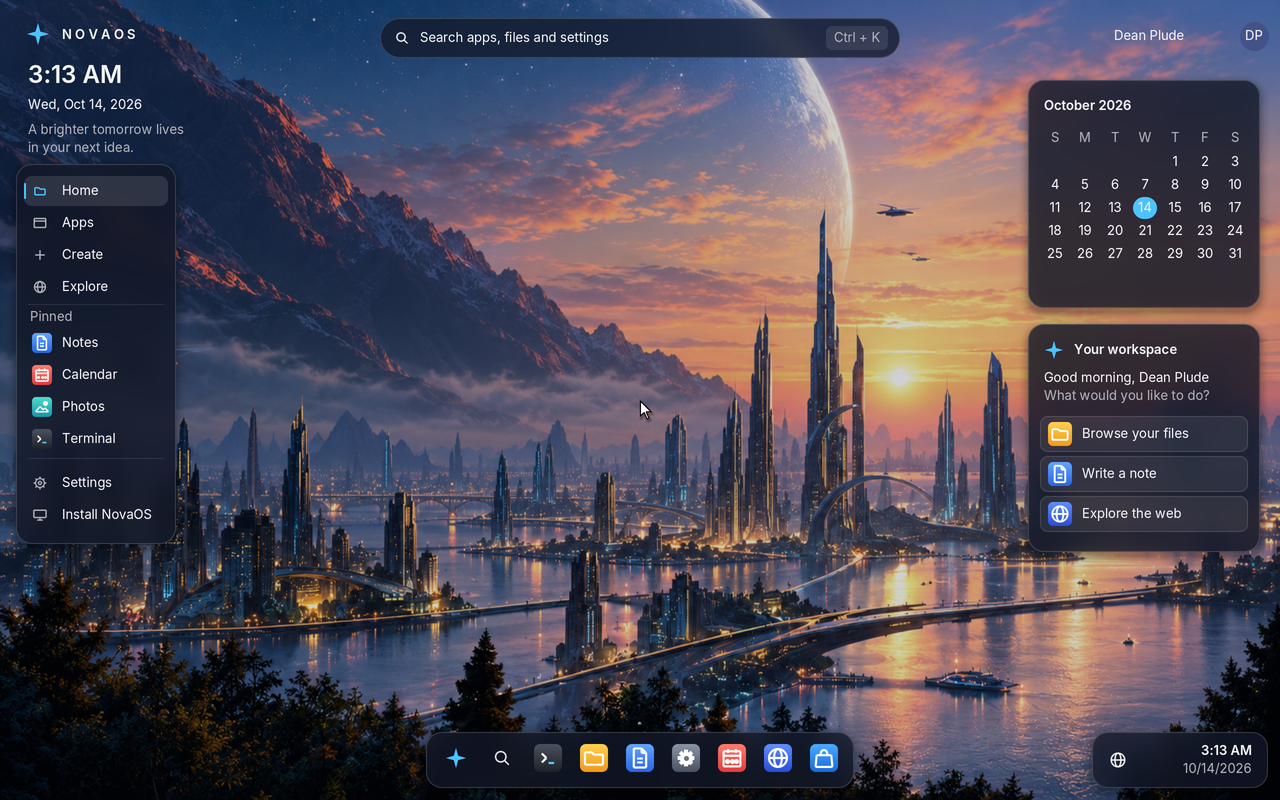
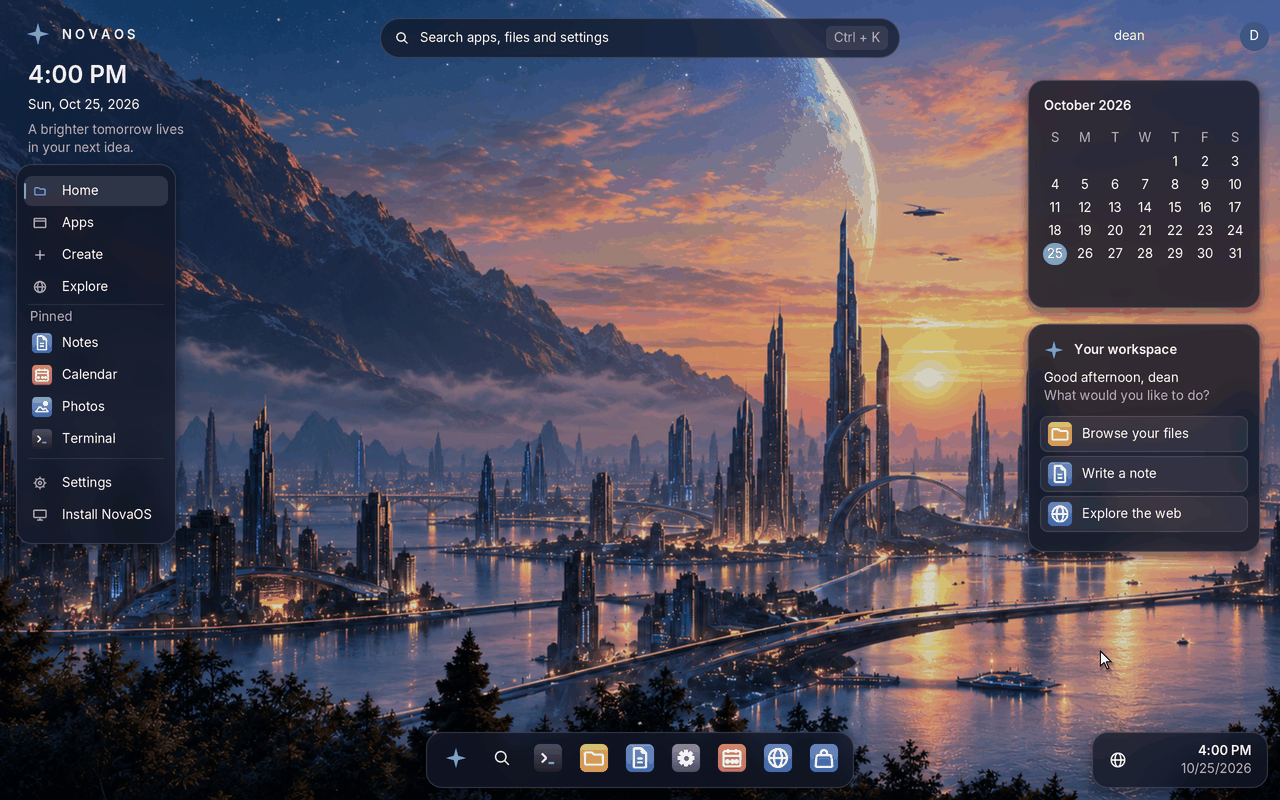
Release prep for 0.2.1 "Starlight": notes, README, screenshots
docs/releases/0.2.1.md drafts the release text (everything since 0.2.0:
Phase 32's XAML, WinUI 2 and packages, drive C: on NTFS in place, the
Settings framework, the firewall, Wi-Fi WPA3, Bluetooth audio, GPU
scheduling, Hyper-V and fixes). The version stays 0.2.0 until Phase 32
closes; the bump comes in its own pull request.

Screenshots retaken from the latest ISO of 2026-10-25: desktop, install,
install-confirm (Setup is NTFS only), settings-display, settings-printers;
new firewall-network-prompt and settings-firewall in the user guide.
README status names Starlight, the T14 boot and the Hyper-V host install,
and lists Phase 32.

Claude-Session: https://claude.ai/code/session_01TQgVPUWm76sFtmkuPDk8va

diff --git a/docs/releases/0.2.1.md b/docs/releases/0.2.1.md
@@ -1,0 +1,152 @@
+NovaOS 0.2.1 "Starlight" is the third release of NovaOS, the from-scratch
+x86-64 operating system that runs native Windows programs: their own
+machine code runs directly on the CPU, and NovaOS supplies the NT system
+calls, the Win32 API, the loader, the desktop and the drivers they expect.
+Kepler (0.2) made NovaOS something to live in; Starlight brings the
+Windows app platform under it: the XAML framework that UWP and WinUI apps
+are written for, built from Microsoft's own MIT source, with WinUI 2's
+controls and Windows app packages. An installed drive C: is now the disk
+itself, Settings was rebuilt, and NovaOS has a firewall.
+
+This ISO passed every CI suite before it was published: the core,
+network and device self-tests (including starting from this ISO) and the
+OpenGL and Direct3D tests.
+
+## What is new since 0.2
+
+**Windows.UI.Xaml and WinUI 2 (Phase 32).** The XAML framework, built
+from Microsoft's MIT `microsoft-ui-xaml` sources, now starts the way it
+does on Windows and answers under its `Windows.UI.Xaml` names, the system
+XAML that UWP and WinUI 2 apps are compiled against.
+
+- **The XAML core and framework build** (32.3): the core services,
+  resource dictionaries with merged and theme dictionaries, the object
+  writer, the control layer on `CoreMessaging.dll`'s `DispatcherQueue`,
+  the value boxer (`wintypes.dll`), the rendering seam, and
+  `Application.Start` on the desktop. `XamlReader.Load` loads a page of a
+  `Grid`, a `TextBlock` and a `Button` end to end.
+- **A XAML window** (32.4): the Windows App SDK's content islands under a
+  `Window`, the framework's control styles and theme resources,
+  DirectWrite's Windows 10 font model (`IDWriteFactory4` to `7`), the
+  window's root `ScrollViewer`, and the composition device and first
+  frame on NovaOS's DirectComposition.
+- **WinUI 2** (32.5): `Microsoft.UI.Xaml.dll` 2.x built from Microsoft's
+  `winui2` sources with no Windows SDK tools (its IDL written to a
+  `.winmd`, C++/WinRT's generator vendored); data binding, control
+  templates, animation and `DispatcherTimer`; a UWP app's start-up runs
+  through to `Window.Current`; `XamlControlsResources` loads whole, and
+  WinUI 2's controls (`InfoBadge`, `ProgressBar`, `ProgressRing`,
+  `SwipeControl`, `BackdropMaterial`) take their default styles.
+- **App packages** (32.6): `appx` installs, lists, removes and starts
+  `.msix` and `.appx` packages, checking every block against the
+  package's block map; package identity, packaged Windows Runtime
+  classes, `ApplicationActivationManager` and `resources.pri` through
+  Microsoft's MRT Core.
+- Along the way: `Windows.UI.Composition`'s later interfaces, property
+  sets and animations; `Windows.Foundation.Metadata.ApiInformation`
+  (Godot 4.7 asks for it at start); `Windows.Foundation.Uri`.
+
+**Drive C: is the disk.** Installed on a disk, NovaOS used to keep all of
+drive C: in memory and write it back behind the scenes. Now an installed
+system's C: is its NTFS volume, used in place as on Windows; the RAM disk
+is only for the live and installer session. Setup formats drive C: as
+NTFS only. Drives on disk keep attributes, times and permissions; Disk
+Management and `GetVolumeInformation` report C:'s real volume; NTFS's
+writer grows the MFT and makes room in a file's record when a rename
+needs it (GIMP's and SuperTux's installers rely on it).
+
+**Settings, rebuilt.** One page framework under every page: each page
+scrolls, a narrow window shows a slim sidebar of icons, **Find a
+setting** (Ctrl+F) searches every page, `start ms-settings:NAME` and
+`settings NAME` open a page, and empty states replace blank pages.
+
+**Network security.** A filtering engine shaped like the Windows Filtering
+Platform and the Windows Firewall on top of it: Domain, Private and
+Public profiles and rules, `fwpuclnt.dll` and `hnetcfg.dll`
+(`INetFwPolicy2`), `netsh advfirewall`, and a Settings > Firewall page. A
+new network is Public; whether it may be Private is asked from the
+network icon by the clock, never by stealing the focus.
+
+**Laptop hardware, continued.** Wi-Fi joins WPA3-Personal networks (SAE
+with management frame protection), and Settings > Wi-Fi and
+`wlanapi.dll` join networks too; a paired Bluetooth headset plays (A2DP,
+with NovaOS's own SBC encoder) and records (hands-free). Still checked
+against modelled devices in QEMU only.
+
+**GPU groundwork.** Command submission, GPU fences, preemption and
+timeout recovery for a render driver, the fourth and fifth parts of step 3
+of the Intel GPU design; Intel's driver itself has not run yet.
+
+**Hyper-V on a real host.** The first boots on a real Hyper-V host brought
+fixes to the synthetic video (packed messages, the screen kept updating
+during boot) and to the storage driver, which now sleeps for its answers
+instead of polling under the kernel lock.
+
+**Fixes.** The Visual C++ Redistributable's installer window shows again;
+idle CPUs return to `PASSIVE_LEVEL` (devices that stopped answering after
+boot); Direct3D on Venus no longer hangs on a present fence; a re-enabled
+KMDF driver starts every time; `appx remove` reports a folder it cannot
+delete.
+
+**CI.** About ten checks per pull request instead of 68, the devices
+suite in three shards, apt and ccache caches that keep test jobs from
+stalling.
+
+[docs/compatibility.md]({blob}/docs/compatibility.md) lists every program
+checked and how well it runs.
+
+## Starting it
+
+Check the download first: `sha256sum -c nova.iso.sha256` on Linux,
+`shasum -a 256 -c nova.iso.sha256` on a Mac.
+
+- **In QEMU** (Linux, macOS, Windows through WSL2): boot `nova.iso` on a
+  q35 machine with UEFI firmware (OVMF) and 2 GB of memory; the
+  [user guide]({blob}/docs/user-guide.md#trying-it-in-a-virtual-machine)
+  has the command lines.
+- **In Hyper-V**: a Generation 2 virtual machine with Secure Boot off
+  ([docs/hyperv.md]({blob}/docs/hyperv.md)).
+- **On a PC** with UEFI and Secure Boot off: write `nova.iso` to a USB
+  stick (`dd`, Rufus in DD mode or balenaEtcher) and start from it.
+- Started from the ISO, NovaOS runs live and offers **Install NovaOS**,
+  on its own disk or beside Windows. The first start of the installed
+  system asks for your name, time zone, keyboard layout and display
+  resolution and creates the first account.
+
+The [user guide]({blob}/docs/user-guide.md) covers the desktop, the App
+Store, files, network and sound; [docs/building.md]({blob}/docs/building.md)
+builds the same image from source.
+
+## Updates
+
+An installed NovaOS 0.2 or a newer build of `main` updates itself to this
+release: the App Store's **Updates** page, or `update` in the Terminal,
+reads this release's `novaos-update.txt`, installs the new kernel and boot
+loader, and goes back to the old ones if the new kernel does not reach the
+desktop ([docs/updates.md]({blob}/docs/updates.md)). An installation on
+NTFS uses its volume as drive C: from the first start of 0.2.1; one on
+FAT32, made by an older NovaOS, keeps the old way (C: in a RAM disk saved
+to the volume) until it is reinstalled on NTFS
+([docs/design/disk-c.md]({blob}/docs/design/disk-c.md)).
+
+## Known limits
+
+- XAML pages are not drawn yet: WinUI 2 apps start, load their resources
+  and apply their styles, and the first page laid out, drawn, typed into
+  and clicked is the next step. Windows Calculator's UWP package also
+  needs the .NET Native framework packages and package signature
+  checking.
+- NovaOS is developed and tested in QEMU. The reference PC, a Lenovo
+  ThinkPad T14 Gen 4 (Intel), boots the 0.2 ISO, but its Wi-Fi,
+  Bluetooth, camera, power management and GPU have not been checked on
+  the machine itself; [docs/hardware.md]({blob}/docs/hardware.md) says
+  what has been verified. Other PCs are untested.
+- 3D runs on the CPU (llvmpipe, lavapipe) except in QEMU's virtio-gpu
+  with Venus; there is no driver for a real GPU yet.
+- Wi-Fi (no enterprise networks) and Bluetooth are tried against modelled
+  devices only; no Secure Boot.
+- Games whose anti-cheat makes its own system calls, such as Roblox's
+  Hyperion, stop at start
+  ([docs/compatibility.md]({blob}/docs/compatibility.md#roblox-and-anti-cheat)).
+- Update channel files are not signed yet; they are checked by size,
+  SHA-256 and version only.

diff --git a/docs/screenshots/README.md b/docs/screenshots/README.md
@@ -11,8 +11,9 @@ All are of NovaOS running in QEMU, saved as optimized PNG files.
 
 | File | Size | How it was taken |
 |---|---|---|
-| `desktop.png` | 1280x800 | The `latest` ISO of 2026-10-14 booted live in QEMU (q35, 4 CPUs, 4 GB, standard VGA at 2560x1600), the installer closed with Esc: the default Aurora desktop with nothing open.  Taken with QMP `screendump`. |
-| `install.png` | 1280x800 | The same boot before Esc: **Install NovaOS**, which a live start opens by itself. |
+| `desktop.png` | 1280x800 | The `latest` ISO of 2026-10-25 (`564e70d`) booted live in QEMU (q35, 4 CPUs, 4 GB, standard VGA at 2560x1600, e1000e network card, USB tablet), the installer closed: the default Aurora desktop with nothing open.  Taken with QMP `screendump`, reduced to 256 colours. |
+| `install.png` | 1280x800 | The same boot before the installer was closed: **Install NovaOS**, which a live start opens by itself. |
+| `install-confirm.png` | 1280x800 | The same boot: Setup's confirm page for a whole blank 16 GB disk, which says drive C: is a new NTFS volume used in place (no file system choice since Setup installs on NTFS only).  In [design/installer.md](../design/installer.md). |
 | `notepad++.png` | 1280x800 | Notepad++ 8.8.3 portable (the app corpus's download) staged with `--put DIR=C:\Apps\npp`, opened on `kernel/ke/scheduler.c` staged in `C:\Projects\src`. |
 | `app-store.png` | 1280x800 | The App Store opened from the dock, with the Terminal minimized. |
 | `task-manager.png`, `task-manager-performance.png` | 1280x800 | Task Manager opened with Ctrl+Shift+Esc over `winhello`, on Processes with `winhello.exe` selected and then on Performance: the screenshots `tests/selftest/core/166-taskmgr.py` takes (`tools/selftest.py --suite core --only taskmgr`), QEMU with 2 CPUs. |
@@ -61,7 +62,8 @@ desktop of early October.
 | `terminal.png` | 1280x800 | Fresh: the Terminal from the dock, running `sysinfo` and `devices`. |
 | `notepad.png` | 1280x800 | Fresh: Notepad from the dock, with two lines typed. |
 | `calendar.png` | 1280x800 | Fresh: Calendar from the dock, over Notepad. |
-| `settings-display.png` | 1280x800 | Settings from the dock, on Display (resolution and scale). |
+| `settings-display.png`, `settings-printers.png`, `settings-firewall.png` | 1280x800 | Fresh (2026-10-25, the same boot as `desktop.png`): Settings from the dock on Display (resolution, scale, DPI and the adapter), Printers (Microsoft Print to PDF and the network printer box) and Firewall (the network Public, the three profiles on, no rules yet). |
+| `firewall-network-prompt.png` | 1280x800 | Fresh (2026-10-25, the same boot): the network icon by the clock clicked on a new network, which asks whether the PC may be discoverable there (Yes makes the network Private).  In the user guide. |
 | `settings-system.png`, `settings-personalization.png`, `settings-personalization-scrolled.png`, `settings-time-language.png`, `settings-network.png`, `settings-search.png`, `settings-narrow.png` | 1280x800 | 2026-10-21, after the Settings page framework: System with Recovery; Personalization at its top and scrolled (the scroll bar, the content clipped under the title); Time & language; Network; **Find a setting** with "net" typed (Network, Wi-Fi and Printers found); and the window snapped to half the screen (Win+Left), where the sidebar shows only the pages' icons.  Taken under QEMU's software emulation from a local build. |
 | `settings-sound.png` | 1280x800 | Earlier (2026-10-03): Settings > Sound with an Intel HD Audio card, a QEMU USB audio device and a USB headset, the headset chosen. |
 | `first-start-setup.png` | 1280x800 | Earlier (2026-10-03): **Welcome to NovaOS** on its time zone page, with "Berlin" typed. |

diff --git a/README.md b/README.md
@@ -120,9 +120,9 @@ name, time zone, keyboard layout and display resolution.
 - **A Mac:** [docs/macos.md](docs/macos.md) (Apple Silicon and Intel).
 - **Hyper-V** (Generation 2 VM): [docs/hyperv.md](docs/hyperv.md).
 - **A real PC from a USB stick** (UEFI, Secure Boot off): write the ISO with
-  `dd`, Rufus in DD mode or balenaEtcher.  NovaOS has not yet been checked on
-  real hardware; [docs/hardware.md](docs/hardware.md) lists what is expected
-  to work on the reference laptop, and [docs/install-and-power.md](docs/install-and-power.md)
+  `dd`, Rufus in DD mode or balenaEtcher.  The 0.2 ISO boots on the
+  reference laptop, a ThinkPad T14 Gen 4; [docs/hardware.md](docs/hardware.md)
+  lists what has been checked on it and what is expected to work, and [docs/install-and-power.md](docs/install-and-power.md)
   covers installing on one.
 
 The [user guide](docs/user-guide.md) covers the desktop, the built-in apps
@@ -225,9 +225,16 @@ updates that roll back, an installer that works beside Windows, printing,
 and the Windows driver model.  A performance budget guards boot time and
 Firefox start-up in CI.
 
-What 0.1 still owes is a boot on the reference PC, a ThinkPad T14 Gen 4: all
-testing so far has been in QEMU (and in CI), and nothing has yet run on a real
-PC or on Microsoft Hyper-V.  The next phases are:
+**NovaOS 0.2.1 "Starlight"** is being prepared
+([draft notes](docs/releases/0.2.1.md)): the Windows app platform (the
+XAML framework built from Microsoft's source, WinUI 2 and app packages,
+Phase 32), drive C: as the installed disk itself, a rebuilt Settings and
+the Windows Firewall.
+
+Kepler's ISO boots on the reference PC, a ThinkPad T14 Gen 4, and NovaOS
+installs on a real Hyper-V host; its laptop drivers (Wi-Fi, Bluetooth,
+camera, power, GPU) are still tested against modelled devices in QEMU.
+The next phases are:
 
 | Phase | Focus |
 |---|---|
@@ -238,6 +245,7 @@ PC or on Microsoft Hyper-V.  The next phases are:
 | 28 | Laptop hardware: Wi-Fi, Bluetooth, camera, battery life, a second reference PC |
 | 29 | NovaOS 0.2 on both reference PCs |
 | 31 | DOS programs: MS-DOS 4.0 built from Microsoft's source, on a real-mode CPU in a NovaOS console window, as NTVDM did |
+| 32 | UWP and WinUI apps: the XAML framework from Microsoft's source as `Windows.UI.Xaml`, WinUI 2, `.msix` packages, then Windows Calculator's own package |
 | 33 | Everyday OS: accounts and sign-in, standard users and UAC, update rollback and recovery, an installer beside Windows, printing |
 
 [docs/ROADMAP.md](docs/ROADMAP.md) has every step, what has been done and

diff --git a/docs/HISTORY.md b/docs/HISTORY.md
@@ -15799,6 +15799,26 @@ shards.
   (`kernel/nt/io.c`, `NtIoFreeDriverExtensions`), as Windows frees them
   when it deletes the object.
 
+## NovaOS 0.2.1 "Starlight": the notes and the screenshots
+
+Release prep for 0.2.1, code name "Starlight", the release that follows
+Phase 32. [docs/releases/0.2.1.md](../releases/0.2.1.md) is the release's
+text: the XAML framework under `Windows.UI.Xaml`, WinUI 2 and app
+packages, drive C: as the installed NTFS volume, the rebuilt Settings, the
+Windows Firewall, and the rest since 0.2, with how to start it and its
+known limits. The version stays 0.2.0 until Phase 32's last steps
+(32.4 to 32.6) have merged; the bump to 0.2.1 and the notes' final words
+come in a pull request of their own, then the owner pushes the `v0.2.1`
+tag ([releasing.md](releasing.md)).
+
+Screenshots retaken from the `latest` ISO of 2026-10-25: the desktop,
+**Install NovaOS** and Setup's confirm page (NTFS only now), Settings'
+Display and Printers pages, and two new ones for the firewall: the
+network icon's question on a new network and Settings > Firewall
+([screenshots/README.md](../screenshots/README.md)). The README's status
+says that Kepler's ISO boots on the T14 and that NovaOS installs on a real
+Hyper-V host, and lists Phase 32.
+
 <!-- END generated:history -->
 
 ## Raw Input for the HID class driver's devices

diff --git a/docs/history/2026-10-25-release-0-2-1-starlight-notes.md b/docs/history/2026-10-25-release-0-2-1-starlight-notes.md
@@ -1,0 +1,19 @@
+## NovaOS 0.2.1 "Starlight": the notes and the screenshots
+
+Release prep for 0.2.1, code name "Starlight", the release that follows
+Phase 32. [docs/releases/0.2.1.md](../releases/0.2.1.md) is the release's
+text: the XAML framework under `Windows.UI.Xaml`, WinUI 2 and app
+packages, drive C: as the installed NTFS volume, the rebuilt Settings, the
+Windows Firewall, and the rest since 0.2, with how to start it and its
+known limits. The version stays 0.2.0 until Phase 32's last steps
+(32.4 to 32.6) have merged; the bump to 0.2.1 and the notes' final words
+come in a pull request of their own, then the owner pushes the `v0.2.1`
+tag ([releasing.md](releasing.md)).
+
+Screenshots retaken from the `latest` ISO of 2026-10-25: the desktop,
+**Install NovaOS** and Setup's confirm page (NTFS only now), Settings'
+Display and Printers pages, and two new ones for the firewall: the
+network icon's question on a new network and Settings > Firewall
+([screenshots/README.md](../screenshots/README.md)). The README's status
+says that Kepler's ISO boots on the T14 and that NovaOS installs on a real
+Hyper-V host, and lists Phase 32.

diff --git a/docs/releasing.md b/docs/releasing.md
@@ -5,9 +5,11 @@ A release is made by pushing a version tag. The tag starts
 tagged commit and, only if every job passes, publishes the GitHub release.
 Nothing is uploaded by hand.
 
-NovaOS 0.1.0 (`v0.1.0`) was released this way on 2026-10-04, and 0.2.0,
-code name "Kepler" (`v0.2.0`, [notes](releases/0.2.0.md)), is prepared the
-same way. Separately,
+NovaOS 0.1.0 (`v0.1.0`) was released this way on 2026-10-04, 0.2.0,
+code name "Kepler" (`v0.2.0`, [notes](releases/0.2.0.md)), on 2026-10-19,
+and 0.2.1, code name "Starlight" (`v0.2.1`, [notes](releases/0.2.1.md)),
+is prepared the same way: its notes go in first, and the version bump
+follows once Phase 32 is complete. Separately,
 every green push to `main` republishes a rolling pre-release tagged
 `latest` ([ci.md](ci.md#the-rolling-latest-release)); that is not a
 release in the sense of this page.

diff --git a/docs/ROADMAP.md b/docs/ROADMAP.md
@@ -23,7 +23,9 @@ NovaOS 0.1.0, the first release, was published on 2026-10-04 from the
 from the `v0.2.0` tag, after Phase 33, the everyday-OS phase (step 29.1 stays
 open until its ISO boots on the T14). Since 0.1 every green
 CI run on a push to `main` republishes a rolling **latest** release with
-that commit's `nova.iso`. The release closed Phase 22 except its checks
+that commit's `nova.iso`. NovaOS 0.2.1 "Starlight" ([draft
+notes](releases/0.2.1.md)) follows once Phase 32 (`Windows.UI.Xaml`, WinUI 2
+and app packages) is complete. The 0.1 release closed Phase 22 except its checks
 on a real PC, which moved to Phase 23. Since then Phase 26 and Phase 30
 are complete, and Phases 24 and 25 are partly done.
 

diff --git a/docs/design/installer.md b/docs/design/installer.md
@@ -18,7 +18,7 @@ recovery boot belong to step 33.3 ([recovery.md](recovery.md)).
 ## Done (part 1): installing into the free space
 
 <img src="../screenshots/install-where.png" alt="Setup's Where page: Windows' partitions and NovaOS in the free space" width="640">
-<img src="../screenshots/install-confirm.png" alt="Setup's confirm page for installing beside Windows" width="640">
+<img src="../screenshots/install-confirm.png" alt="Setup's confirm page: drive C: is a new NTFS volume, used in place" width="640">
 
 `SetupListDisks` (`kernel/fs/setup.c`) reads each disk's partition table
 (`DiskReadLayout`, `kernel/fs/partition.c`), names each partition from its

diff --git a/docs/user-guide.md b/docs/user-guide.md
@@ -498,6 +498,10 @@ Rules and profiles are kept where Windows keeps them, under
 `HKLM\SYSTEM\CurrentControlSet\Services\SharedAccess\Parameters\FirewallPolicy`
 ([design](design/network-security.md)).
 
+![The network icon's question on a new network](screenshots/firewall-network-prompt.png)
+
+![Settings > Firewall](screenshots/settings-firewall.png)
+
 **Sound** plays through the newest output device.  Settings > Sound picks
 another device and sets each device's volume; the choices are kept across
 restarts.  On the reference laptop (ThinkPad T14 Gen 4), the built-in
